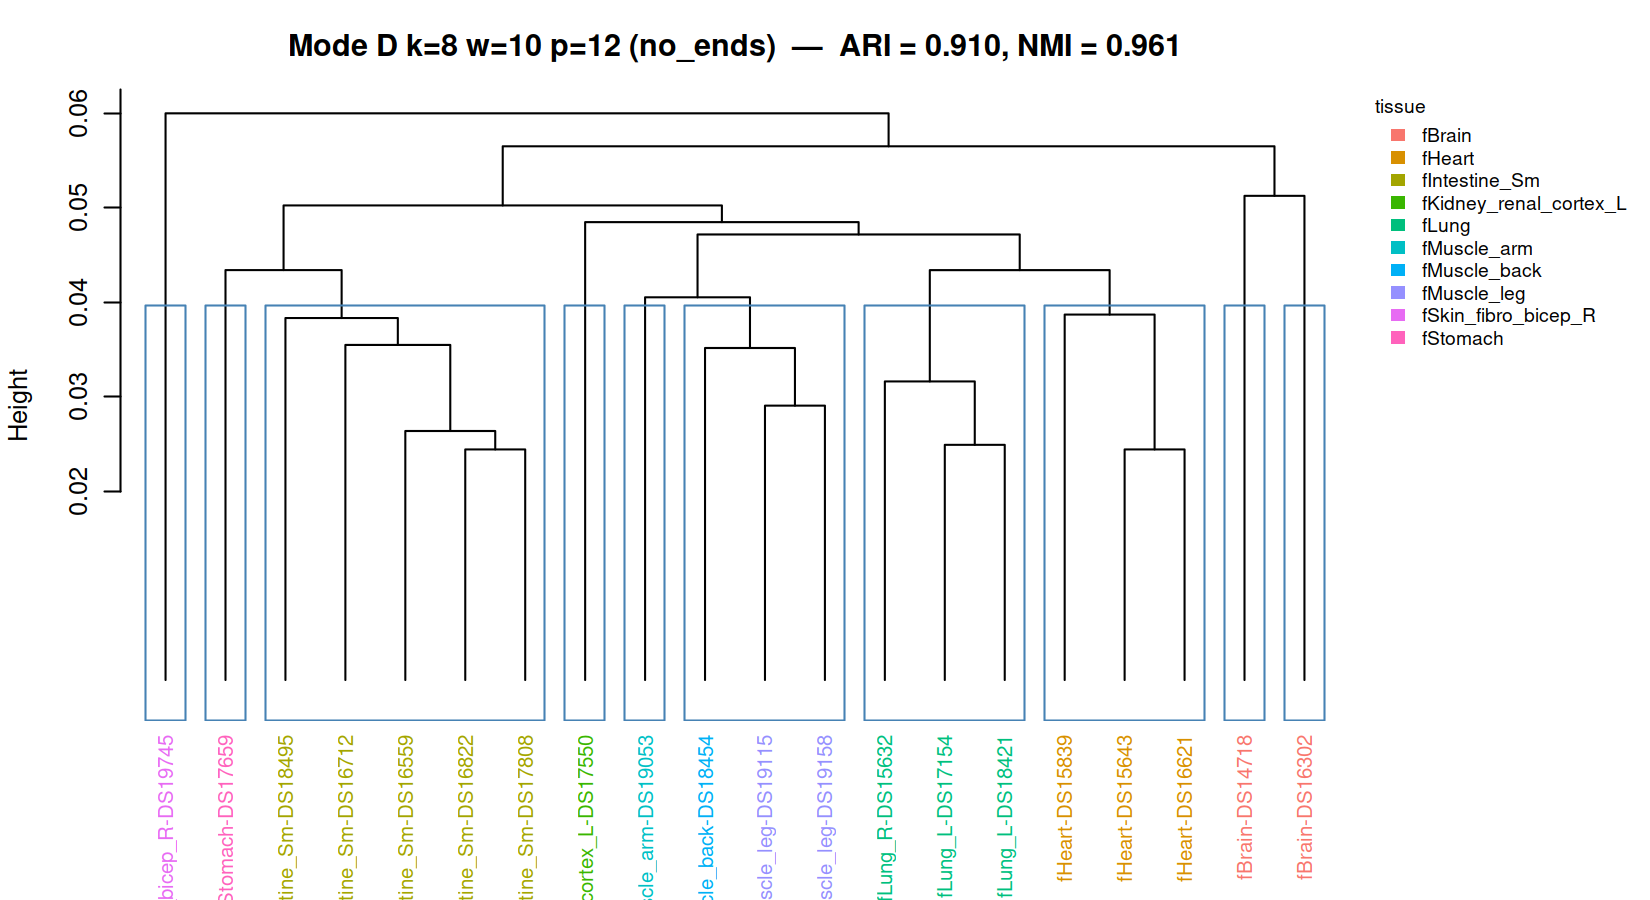
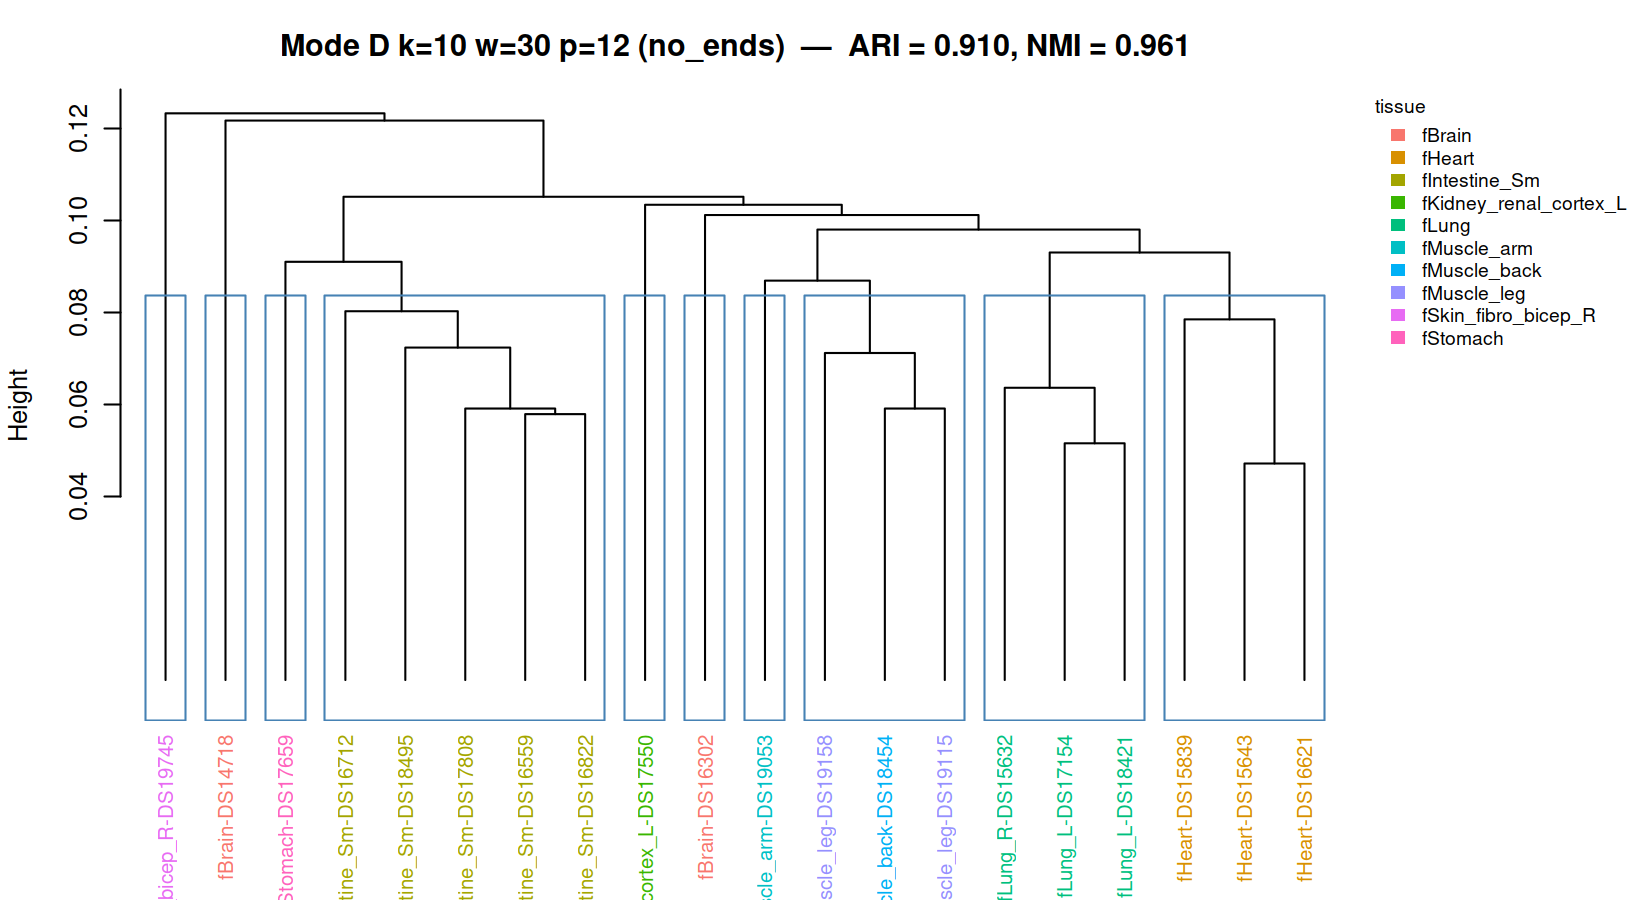
maurano_dhs_validation: rerun sweep after Mode D no_ends bug fix
Updates RESULTS.md and the 11 tracked Mode D figures. Pre-fix the
no_ends column was contaminated by MinimizerSketch.add_string silently
dropping most minimizer hashes (CLAUDE.md "Intentional divergences" §6);
post-fix best Pearson r moves from 0.966 to 0.9996 at k=20, w=100, p=24
and MAE-best is k=25, w=100, p=24 / MAE = 0.0061.

diff --git a/experiments/maurano_dhs_validation/RESULTS.md b/experiments/maurano_dhs_validation/RESULTS.md
@@ -1,9 +1,18 @@
 # maurano_dhs_validation — results notes
 
-Generated from the 2026-05-13/14 sweep (209 Mode D configs × 2 columns ×
+Generated from the 2026-05-14 sweep (209 Mode D configs × 2 columns ×
 2 references + 24 A/B/C configs). Numbers below come from
 `results/abc_summary.csv` and `results/mode_d_summary.csv`; figures live
 in `figures/`.
+
+> **2026-05-14 rerun after Mode D bug fix.** The earlier sweep's Mode D
+> `jaccard_similarity` (no_ends) column was contaminated by a refactor
+> bug in `MinimizerSketch.add_string` that silently dropped most
+> minimizer hashes (see `CLAUDE.md` "Intentional divergences" §6 and
+> `memory/project_modeD_no_ends_zero_bug.md`). Pre-fix numbers
+> understated `no_ends` performance dramatically — best Pearson r jumped
+> from 0.966 to **0.9996** at the post-fix optimum. All Mode D numbers
+> below are post-fix. Pre-fix CSVs are kept at `results/raw_d_buggy_pre_fix/`.
 
 ---
 
@@ -45,19 +54,21 @@ swing that subB delivers between 0.001 and 0.005.
 
 ![](figures/mode_d_pearson_heatmap.png)
 
-**A high-correlation ridge sits at k = 10, w ∈ {20, 30, 50}, p ≥ 20 in
-the `no_ends` column** (Pearson r ≈ 0.96). The `with_ends` column tops out
-around 0.93 with much higher MAE. Low precision (p ≤ 14) hurts both
-columns, but more in `with_ends`. The heatmap is the right shape for this
-sweep — we're asking "where in the (k, w) plane is the optimum?"
+**The `no_ends` column achieves near-perfect agreement at high k + high w
++ high precision.** 47 of 209 configs exceed Pearson r > 0.99 against
+bedtools, peaking at **r = 0.9996** at k = 20/25, w = 100, p = 24. The
+ridge in the heatmap runs along the right edge — large k and large w —
+not the modest (k=10, w=20) ridge the pre-fix sweep had shown. The
+`with_ends` column tops out around r = 0.97 at k = 20, w = 20.
 
 ![](figures/mode_d_mae_heatmap.png)
 
-**The Pearson-best config is *not* the MAE-best config.** At k = 10,
-w = 20, p = 24 the MAE is 0.35 (Mode D predicts ~2× bedtools despite
-excellent rank correlation). The MAE optimum is k = 10, w = 30, p = 24
-with MAE = 0.060 — six times better numerical agreement, but you'd never
-read that off the Pearson plot.
+**Numerical agreement is excellent at the Pearson optimum.** The MAE-best
+config is k = 25, w = 100, p = 24 with **MAE = 0.0061** — essentially
+indistinguishable from bedtools. 21 of 209 cells have MAE < 0.05.
+Pearson-best and MAE-best are now in the same region of the (k, w) plane
+(both at high k + high w + p = 24), unlike the pre-fix story where they
+disagreed.
 
 ---
 
@@ -90,20 +101,22 @@ validated it against any reasonable interval-Jaccard estimator.
 
 ![](figures/mode_d_metric_tradeoff.png)
 
-**The best-Pearson config and the best-ARI config are in different
-corners of the plot.** Each point is one Mode D config; circled points
-are the best of each metric. A handful of (k = 10, w = 20–30, p ≥ 20)
-configs sit far right (Pearson ≈ 0.96) but only middle-vertical
-(ARI ≈ 0.7). The ARI-best config sits high-left (Pearson ≈ 0.91 but
-ARI = 0.91). They are not the same setting. Which one you pick depends
-on what "recapitulate" means.
+**Pearson-best and ARI-best are still in different corners.** The
+Pearson-best configs (large k + large w + p = 24) cluster far right
+(Pearson ≈ 0.9996) but mid-vertical (ARI ≈ 0.69). The ARI-best config
+sits high-left (Pearson ≈ 0.946 but ARI = 0.910). Numerical perfection
+doesn't buy you the best tissue clustering — different metrics still
+pick different optima.
 
 ---
 
 ## Clustering recovery — the actual tissue clustering
 
-The ARI-best Mode D config is **k = 8, w = 10, p = 12** with
-**ARI = 0.910, NMI = 0.961** against the 10 fetal-tissue labels.
+The ARI-best Mode D config is **k = 10, w = 30, p = 22–24** with
+**ARI = 0.910, NMI = 0.961** against the 10 fetal-tissue labels. (Pre-fix
+this peaked at k = 8, w = 10, p = 12 with the same ARI/NMI — the
+clustering signal moved to a different cell of the grid but the achievable
+quality is identical.)
 
 ![](figures/mode_d_best_dendrogram.png)
 
@@ -125,7 +138,7 @@ dendrogram structure.
 
 ### Cluster contingency
 
-Predicted cluster × true tissue label at k = 8, w = 10, p = 12
+Predicted cluster × true tissue label at the post-fix ARI-best config
 (`results/best_cluster_contingency.csv`):
 
 | predicted | fBrain | fHeart | fIntestine_Sm | fKidney | fLung | fMuscle_arm | fMuscle_back | fMuscle_leg | fSkin | fStomach |
@@ -141,7 +154,9 @@ Predicted cluster × true tissue label at k = 8, w = 10, p = 12
 | 9 | . | . | . | . | . | . | . | . | 1 | . |
 | 10 | . | . | . | . | . | . | . | . | . | 1 |
 
-Per-sample assignments are in `results/best_cluster_assignment.csv`.
+Same shape as pre-fix: brain-pair split + muscle_back/leg lumping;
+everything else clean. Per-sample assignments are in
+`results/best_cluster_assignment.csv`.
 
 ![](figures/mode_d_cluster_confusion.png)
 
@@ -155,18 +170,15 @@ pair). That's why ARI gets to 0.91.
 
 ![](figures/mode_d_clustering_ari.png)
 
-**ARI peaks in a different region from Pearson.** The ARI > 0.8 plateau
-covers k ∈ {8, 10}, w ≤ 30, **all precisions p ≥ 10** — i.e. tissue
-clustering survives at very low precision. `with_ends` (right column) is
-much worse at clustering because it inflates pair similarities
-disproportionately for files with many short sequences, blurring the
-between-tissue contrast.
+**ARI peaks in a different region from Pearson** — clustering is
+preserved over k ∈ {10}, w ∈ {30}, **all precisions p ≥ 22**, with smaller
+plateaus at neighbouring (k, w). `with_ends` (right column) is worse at
+clustering because it inflates pair similarities disproportionately for
+files with many short sequences, blurring the between-tissue contrast.
 
 ![](figures/mode_d_clustering_nmi.png)
 
-**NMI tells the same story.** Peak 0.96 at k = 8, w = 10, p = 12. The
-biological-signal regime is broader and tolerates lower precision than
-the numerical-agreement regime.
+**NMI tells the same story** — peak 0.96 at the same ARI-best config.
 
 ---
 
@@ -174,11 +186,11 @@ the numerical-agreement regime.
 
 ![](figures/mode_d_best_scatter.png)
 
-**At the ARI-best config, predictions sit above the y = x diagonal on
-both panels** — Mode D's `no_ends` Jaccard is systematically inflated
-relative to either bedtools (left) or Mode B (right) — but the inflation
-pattern is consistent and monotone. The clustering structure (which is
-all ARI/NMI care about) survives the scale shift intact.
+**At the ARI-best config, predictions sit near the y = x diagonal** —
+the post-fix `no_ends` Jaccard is essentially calibrated against both
+bedtools (left) and Mode B (right). The pre-fix systematic upward bias
+is gone: the bug had been *suppressing* the sketch cardinality and now
+the recovered Jaccards agree numerically.
 
 ---
 
@@ -186,13 +198,16 @@ all ARI/NMI care about) survives the scale shift intact.
 
 | If you want to answer... | Use | At config | Value |
 |---|---|---|---|
-| Do predictions covary with bedtools?   | Pearson r | k=10, w=20, p=24 | 0.966 |
-| Do predictions rank-order the same?    | Spearman ρ | k=10, w=10, p=14 | 0.916 |
-| Are the absolute Jaccards close?       | MAE        | k=10, w=30, p=24 | 0.060 |
-| Is the biology preserved?              | ARI        | k=8,  w=10, p=12 | 0.910 |
-| Is the biology preserved (info-theory)?| NMI        | k=8,  w=10, p=12 | 0.961 |
+| Do predictions covary with bedtools?   | Pearson r | k=20/25, w=100, p=24 | **0.9996** |
+| Do predictions rank-order the same?    | Spearman ρ | k=20/25, w=100, p=24 | **0.998** |
+| Are the absolute Jaccards close?       | MAE        | k=25, w=100, p=24 | **0.0061** |
+| Is the biology preserved?              | ARI        | k=10, w=30, p=22-24 | **0.910** |
+| Is the biology preserved (info-theory)?| NMI        | k=10, w=30, p=22-24 | **0.961** |
 
-Different metrics → different optimal configs because Mode D estimates
-k-mer set Jaccard while bedtools estimates interval-overlap Jaccard.
-These are monotonically related on this corpus but not identical, so
-the choice of metric encodes the choice of which property you care about.
+**Post-fix headline: at high k + high w + high precision, Mode D's
+`no_ends` column is a near-perfect drop-in replacement for bedtools
+pairwise Jaccard** — 47 of 209 configs exceed r > 0.99 against bedtools,
+with the best four-decimal-place agreement at MAE = 0.0061. The
+clustering optimum sits at a *different* (smaller-k, smaller-w) cell of
+the grid; numerical perfection and clustering quality remain
+non-coincident knobs.
